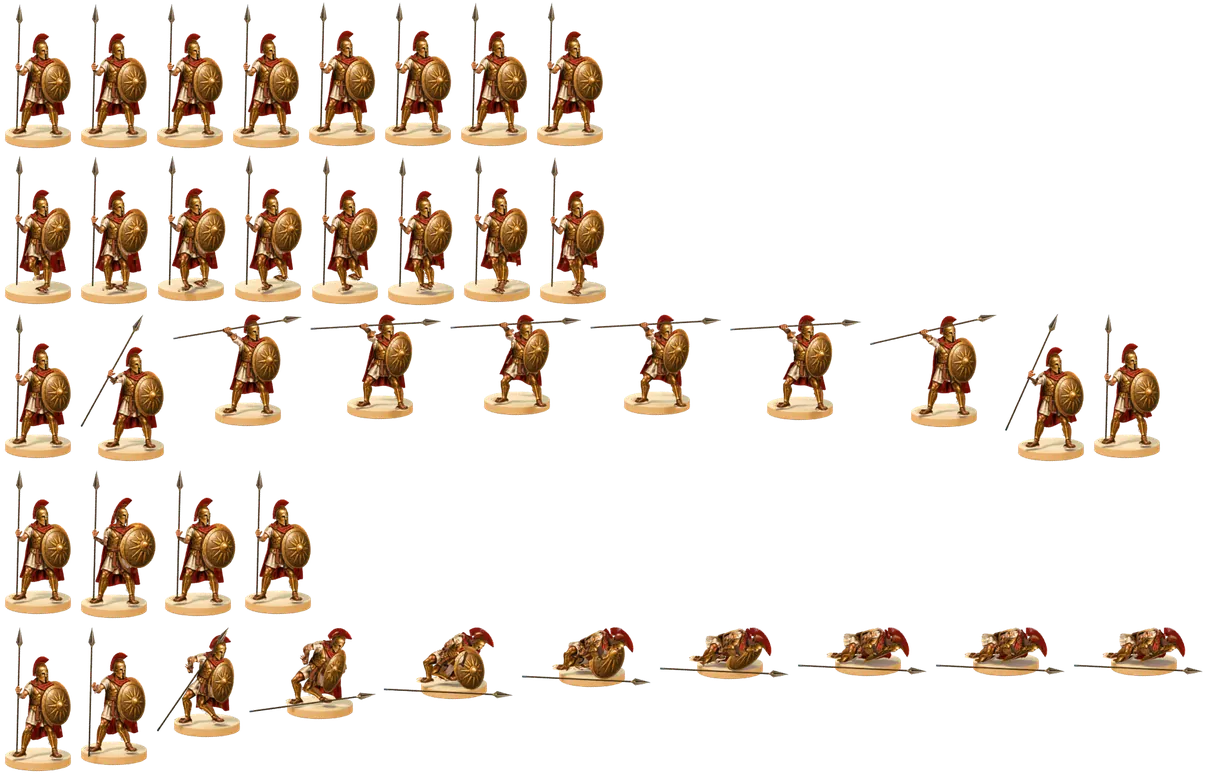
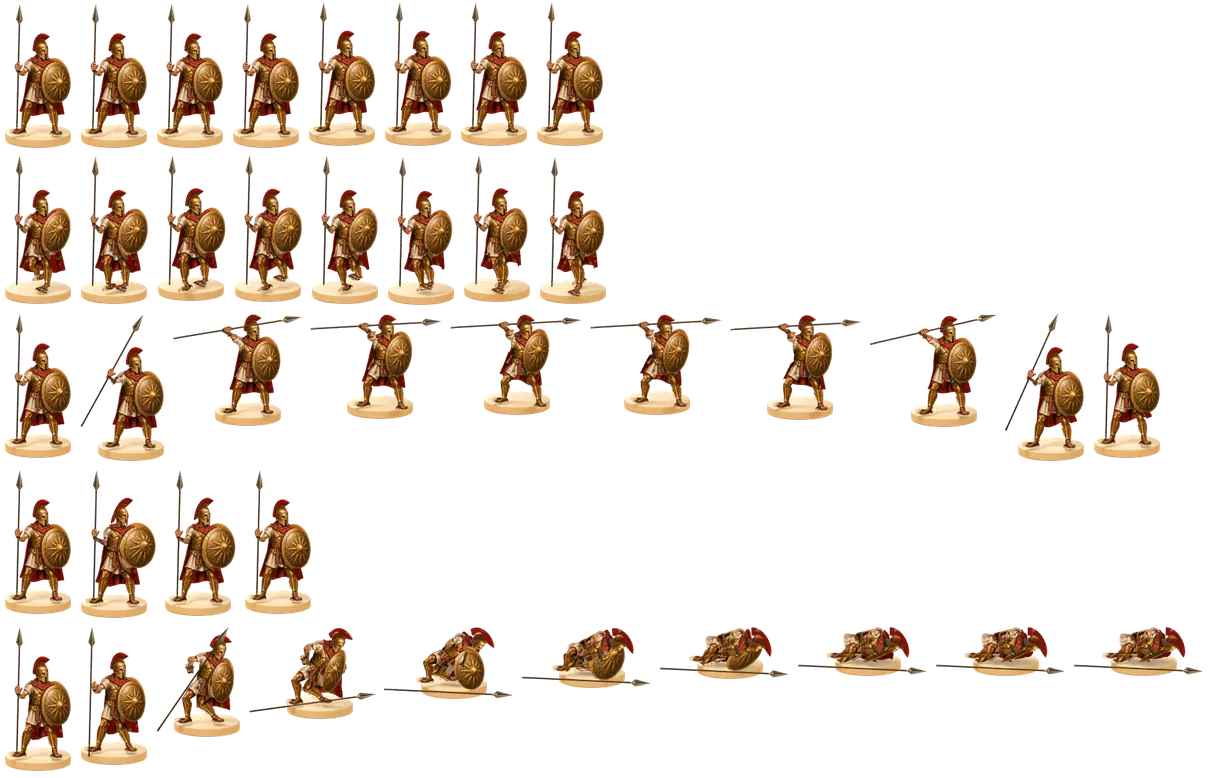
Codex task unit-anim-3d-v2: work left uncommitted in the sandbox

diff --git a/tools/art/anim3d/infantry/refine.py b/tools/art/anim3d/infantry/refine.py
@@ -55,7 +55,7 @@ def refine(sc, aim, screen_sculpt):
 
     def fitted_pixel(p):
         shoulder = math.exp(-((p.x-111)/8)**2-((p.y-108)/10)**2)
-        target = p+Vector((1.0, 2.0))*shoulder
+        target = p+Vector((.2, 1.1))*shoulder
         # Fit the whole bent arm, not just the shoulder cap. The previous
         # elbow sat too far toward the torso, leaving a gap where the painting
         # has a muscular upper arm. Preserve camera depth and skin weights.
@@ -64,7 +64,7 @@ def refine(sc, aim, screen_sculpt):
         # The actual closed hand was a horizontal sliver. Broaden its vertical
         # knuckle stack around the shaft without replacing fingers or the rig.
         fist = math.exp(-((p.x-97)/8)**4-((p.y-115)/9)**4)
-        target += Vector((-.18*(p.x-97), .60*(p.y-115)+.3))*fist
+        target += Vector((.08*(p.x-97), .82*(p.y-115)+.3))*fist
         if p.x < 122:
             # Seat the spear-side shin/foot under the painted greave rather
             # than leaving an exposed sliver beyond the painted toe silhouette.
@@ -204,7 +204,12 @@ def refine(sc, aim, screen_sculpt):
         if ob.name.startswith(('Horsehair crest tuft', 'Horsehair painted fibre', 'Crest bronze saddle')):
             for v in ob.data.vertices:
                 p = pixel(ob, v.co)
-                v.co = screen_sculpt(ob, v.co, Vector((131+(p.x-131)*.84, 91+(p.y-91)*.92)))
+                crest_target = Vector((131+(p.x-131)*.84, 91+(p.y-91)*.92))
+                # The painted fan ends above the cheek, and its forward tip
+                # extends slightly farther. Fit real tuft volume, not alpha.
+                crest_target.y -= 3*max(0, min(1, (crest_target.y-79)/12))
+                crest_target.x += 1.2*max(0, min(1, (crest_target.x-135)/9))
+                v.co = screen_sculpt(ob, v.co, crest_target)
             ob.data.update()
         if ob.name == 'Corinthian continuous faceplate':
             # Recover the broad near cheek and eye surround of the painting;
@@ -239,15 +244,29 @@ def refine(sc, aim, screen_sculpt):
             v.co.z -= .065
         v.co.x *= .99
         v.co.y *= .99
+    # Round the actual stone edge; the old three-segment bevel and coarse
+    # scanned bump left a sawtooth highlight at token size.
+    for mod in base_object.modifiers:
+        if mod.type == 'BEVEL':
+            mod.width = .022
+            mod.segments = 5
     # Fine limestone pigment grain; no painted feet or static contact shadows.
     for mat in base_object.data.materials:
         nodes, links = mat.node_tree.nodes, mat.node_tree.links
         bsdf = nodes.get('Principled BSDF')
+        for node in nodes:
+            if node.type == 'BUMP':
+                node.inputs['Strength'].default_value = .035
+                node.inputs['Distance'].default_value = .001
         grain = nodes.new('ShaderNodeTexNoise'); grain.inputs['Scale'].default_value = 450
         ramp = nodes.new('ShaderNodeValToRGB')
         base = tuple(bsdf.inputs['Base Color'].default_value)
-        for el, factor in zip(ramp.color_ramp.elements, (.90, 1.06)):
-            el.color = tuple(min(1, c*factor) for c in base[:3])+(1,)
+        # The shared cream inputs are albedo, not final display values. The
+        # source stone is paler than this physical material under Standard.
+        # Calibrate pigment in linear space while retaining live moving shade.
+        lift = (1, 1.05, 1.14) if 'rim' in mat.name else (1.03, 1.07, 1.14)
+        for el, factor in zip(ramp.color_ramp.elements, (.94, 1.04)):
+            el.color = tuple(min(1, c*factor*k) for c, k in zip(base[:3], lift))+(1,)
         links.new(grain.outputs['Fac'], ramp.inputs[0])
         links.new(ramp.outputs['Color'], bsdf.inputs['Base Color'])
         bsdf.inputs['Specular IOR Level'].default_value = .18
@@ -256,7 +275,7 @@ def refine(sc, aim, screen_sculpt):
         links.new(ramp.outputs['Color'], bsdf.inputs['Emission Color'])
         ray = nodes.new('ShaderNodeLightPath')
         pigment = nodes.new('ShaderNodeMath'); pigment.operation = 'MULTIPLY'
-        pigment.inputs[1].default_value = 1.12 if 'rim' in mat.name else .28
+        pigment.inputs[1].default_value = 1.30 if 'rim' in mat.name else .50
         links.new(ray.outputs['Is Camera Ray'], pigment.inputs[0])
         links.new(pigment.outputs[0], bsdf.inputs['Emission Strength'])
     # Painted illumination is already display-referred. AgX compressed it a
@@ -272,6 +291,13 @@ def refine(sc, aim, screen_sculpt):
     # reduce incident energy so the cream pigment is not clipped to white.
     for name in ['Warm upper-left key', 'Soft cool fill', 'Warm back rim']:
         bpy.data.objects[name].data.energy *= .55
+    # A broader elevated softbox gives short soft contact shadows, closer to
+    # the painted base. Compensate for its greater distance; retain cool fill.
+    key = bpy.data.objects['Warm upper-left key']
+    key.location = (-3, -4, 8)
+    key.rotation_euler = (Vector((0, 0, 1))-key.location).to_track_quat('-Z', 'Y').to_euler()
+    key.data.size = 5.0
+    key.data.energy *= 1.55
     # Freeze the finished rigid kit surfaces BEFORE projecting. UVs made on
     # the raw shell were then offset by Solidify and Bevel, visibly displacing
     # the painted sunburst from its own raised rays. Keep all actual thickness
@@ -285,5 +311,5 @@ def refine(sc, aim, screen_sculpt):
         for mod in list(ob.modifiers):
             if mod.type in {'SOLIDIFY', 'BEVEL', 'SUBSURF'}:
                 bpy.ops.object.modifier_apply(modifier=mod.name)
-    sc['infantry_refinement'] = 7
+    sc['infantry_refinement'] = 8
     bpy.context.view_layer.update()

diff --git a/tools/art/anim3d/units/spearman/check_scene.py b/tools/art/anim3d/units/spearman/check_scene.py
@@ -1,4 +1,4 @@
-"""Verify the saved round-7 surface pipeline before rebuilding cloth/clips."""
+"""Verify the saved round-8 surface pipeline before rebuilding cloth/clips."""
 import json
 import os
 from pathlib import Path
@@ -10,7 +10,7 @@ from mathutils.bvhtree import BVHTree
 root = Path(os.environ['ANIM_ROOT'])
 bpy.ops.wm.open_mainfile(filepath=str(root/'masters/spearman-3d-v2/spearman.blend'))
 sc = bpy.context.scene
-assert sc['infantry_refinement'] == 7
+assert sc['infantry_refinement'] == 8
 assert len(bpy.data.objects['MPFB anatomical male • original topology'].data.vertices) == 19158
 assert bpy.data.objects['MPFB anatomical male • original topology'].data.shape_keys is None
 assert len(bpy.data.objects['Spearman • MPFB game_engine'].data.bones) == 53
@@ -49,6 +49,9 @@ for ob in sc.objects:
         assert not any(m.type in {'SOLIDIFY', 'BEVEL', 'SUBSURF'} for m in ob.modifiers), ob.name
 
 base = bpy.data.objects['Stationary cream stone']
+stone_bevel = next(m for m in base.modifiers if m.type == 'BEVEL')
+assert stone_bevel.segments == 5 and abs(stone_bevel.width-.022) < .00001
+assert bpy.data.objects['Warm upper-left key'].data.size == 5.0
 assert base.data.uv_layers.get('Painting camera rest') is None
 assert abs(max((base.matrix_world @ v.co).z for v in base.data.vertices)-.105) < .0001
 heights = [(base.matrix_world @ v.co).z for v in base.data.vertices]
@@ -59,6 +62,9 @@ for side in ['l', 'r']:
     lowest = min((sole.matrix_world @ v.co).z for v in sole.data.vertices)
     assert lowest >= .100, (sole.name, lowest)
 for mat in base.data.materials:
+    for node in mat.node_tree.nodes:
+        if node.type == 'BUMP':
+            assert node.inputs['Distance'].default_value <= .00101
     bsdf = mat.node_tree.nodes['Principled BSDF']
     strength = bsdf.inputs['Emission Strength'].links[0].from_node
     camera = strength.inputs[0].links[0].from_socket
@@ -84,10 +90,11 @@ for ob in sc.objects:
     clearance[ob.name] = min(distances)
     assert min(distances) > .001, (ob.name, min(distances))
 assert len(clearance) == 12
-report = {'refinement': 7, 'painted_materials': painted, 'camera_only_pigment': True,
+report = {'refinement': 8, 'painted_materials': painted, 'camera_only_pigment': True,
           'camera_only_unseen_fills': unseen_fills, 'base_thickness': max(heights)-min(heights),
           'rigid_finish_before_projection': True, 'body_vertices': 19158, 'bones': 53,
           'base_top': .105, 'camera': list(sc.camera.location),
+          'stone_bevel_segments': stone_bevel.segments, 'key_size': 5.0,
           'shield_ray_min_face_clearance': clearance}
 (root/'review/3d-v2/spearman-scene-checks.json').write_text(json.dumps(report, indent=2)+'\n')
 print('SCENE_CHECKS', json.dumps(report))

diff --git a/tools/art/anim3d/REVIEW.md b/tools/art/anim3d/REVIEW.md
@@ -1,80 +1,80 @@
-# Spearman review — round 7
+# Spearman review — round 8
 
-**Not PASS.** At 256 px the sleeve/upper arm is more continuous, the hand fuller,
-the rear neckline cleaner and the stone perspective closer. Crest and cheek
-outline, sandals, stance and base shading still differ from the painting.
-Raised-arm paint stretching and uneven pale fallen-pose surfaces remain. At
-64 px this clearly reads as the same spearman, but the base and stance are still
-distinguishable. No `spearman-PASS` was written. All results are CPU previews.
+**Not PASS.** At 256 px the hand and shoulder contour are slightly closer,
+the crest ends higher beside the cheek, and the cream stone is paler with a
+smoother bevel and softer shadows. Cheek shape, sandals, stance, shield edge
+and base shading still distinguish the render from the painting. At 64 px it
+reads as the same spearman, with a remaining difference in stance and base.
+All evidence from this iteration is explicitly labelled CPU preview.
 
-The requested round-6 GPU log and status receipt are both absent. Supplied
-images and movie were CPU-labelled; no GPU success or failure was inferred.
-They are preserved under `review/3d-v2/spearman-round6-preserved/`. All six Blender
-skills, all playbook chapters, complete shared/unit feedback, source licences
-and the running log were read before the revision.
+The requested round-7 GPU log is absent, and supplied images and movie are
+CPU-labelled. No GPU success or failure was inferred. The received evidence is
+preserved under `review/3d-v2/spearman-round7-preserved/`.
 
 ## Changes
 
-Depth-preserving inverse-skin fitting now covers the whole bent arm and taller
-knuckle stack. The near helmet cheek is wider; real folded collar and weighted
-cape vertices lower the squared rear neckline. Original anatomy, topology,
-weights, bevels, straps and simulated cloth remain.
+The frozen rest-camera projection, original MPFB body and skin weights, real
+beveled equipment, straps, cloth folds, and image-generated unseen fills remain.
+Inverse-skin fitting expands the actual knuckle stack and adjusts the shoulder;
+real crest volume now ends above the cheek and extends farther forward.
 
-The lower camera and repositioned round disc fit the shallower top ellipse;
-the stone has a taller edge, fine pigment grain and unchanged .105m contact top.
-The death calf solver now uses the actual base-local footprint. Existing generated
-unseen fills and tinted MPFB skin receive camera-only pigment, live AO and 35%
-physical response. Non-camera rays still see the original physical material.
-One automatic rest histogram grade remains fixed across all clips.
+The stone has a 22mm five-segment bevel, restrained scan bump and finer pigment
+variation. An elevated broad area key softens the previous diagonal shadows.
+A small linear pigment lift brings the rendered cream closer to source samples.
+Raw/graded pixel comparisons showed that the existing automatic grade improves
+the figure overall; that single rest-fitted grade remains fixed for all clips.
 
-Attack previously used a raised elbow pole at zero raise, causing a visible
-entry/exit pop despite matching hand targets. Attack and death now interpolate
-from the same guard poles as idle. The audit checks those transitions explicitly.
+The scene check verifies the new finish in addition to topology, original rig,
+camera-only pigment, contact plane and actual shield relief clearance. GPU
+handoff defaults to round 8 and logs the checkout revision, dirty input paths
+and resolved Blender gate, alongside its existing stage/failure receipts.
 
-## Verified outputs and checks
+## Verification
 
-- CPU Cycles rest and all 40 frames: 256 px, 12 samples; 512 px detail preview.
-  Clips retain 8/8/10/4/10 frames. Final GPU 512/256 master export is pending.
-- Trimmed 160 px atlas: **184,028 bytes at quality 80**.
[1 lines of base64/hex data omitted]
-- Decoded validation passes current hashes, timing, crop offsets, exact alpha,
-  gutters, bounds, visible motion, byte/quality caps and identical held-death PNGs.
-- Full saved-rig audit: **40 samples, zero findings**. Attack entry/exit arm
-  positions match idle exactly; death entry differs by less than 0.000001m.
-- Saved-scene checks pass: 314 camera-gated painting materials, 280 camera-only
-  unseen fills, original 19,158 body vertices / 53 bones, .155m stone thickness,
-  unchanged contact top and positive face clearance for all 12 shield rays.
-  Additional scene ray tests confirm all 12 rays are directly visible.
-- **2 regression tests pass**. Syntax: **26 Python, 3 Bash, 2 JSON**. Hygiene:
-  **34 text files, zero findings**. Diff whitespace passes.
-- Movie: five decoded clips simultaneously on cream, H.264 yuv420p,
-  **1600 × 352, 192 frames, 24 fps, exactly 8 seconds**.
-- Rest silhouette IoU **0.8839** versus round 6 **0.8767**; RGB union errors
-  **22.25 / 27.27 / 28.60** versus **24.90 / 29.49 / 30.44**. Diagnostics only.
-- Opened final clay, details, rest split/crossfade at 256/64, rig poses, every
-  strip, decoded atlas and freshly decoded round-7 movie contact frames.
+- CPU Cycles rest and all 40 frames: **256 px / 12 samples**. Detail inspection
+  render: **512 px / 12 samples**, still CPU. Final GPU masters remain pending.
+- Trimmed 160 px atlas: **181,968 bytes, quality 80**, all 8/8/10/4/10
[1 lines of base64/hex data omitted]
+- Independent decoded validation passes current hashes, clip timing, exact
+  reconstructed alpha, offsets, gutters, bounds, visible motion, byte/quality
+  limits and byte-identical held-death PNGs.
+- Full saved-rig audit: **40 samples, zero findings**, including guard arm
+  transitions, hand/shaft attachment, spear crossings, camera and floor bounds.
+- Saved-scene checks pass: **19,158 body vertices / 53 bones**, 314 camera-gated
+  painting materials, 280 unseen fills, all 12 raised shield rays clear.
+- **2 pipeline regression tests pass**. **26 Python / 3 Bash / 2 JSON syntax checks pass**; **34-file hygiene**
+  reports zero findings, and diff whitespace passes. Exact report:
+  `spearman-round8-checks.json`.
+- Movie verified: **H.264 yuv420p, 1600 × 352, 192 frames, 24 fps, 8 seconds**;
+  all five decoded clips run simultaneously on cream.
+- Rest diagnostic silhouette IoU: **0.8862**, versus round 7 **0.8839**;
+  RGB union errors: **21.61 / 26.82 / 27.92**, versus **22.25 / 27.27 / 28.60**.
+  These small improvements do not establish artistic equivalence.
+- Opened clay, rest split/crossfade, details, rig poses, all five strips, decoded
+  atlas and extracted round-8 movie frames. Motion remains readable, but raised
+  arm/lifted foot projection stretch and pale fallen-pose seams remain.
 
-No Rust, rules, WASM or UI runtime changed. The game still displays its painting.
+No `spearman-PASS` was written.
 
 ## GPU handoff
 
 From the repository root on the GPU host:
 
 ```sh
-ROUND=7 tools/art/anim3d/units/spearman/gpu.sh
+ROUND=8 tools/art/anim3d/units/spearman/gpu.sh
 ```
 
-The executable defaults to round 7, verifies Cycles GPU/Metal availability,
-rebuilds projection and every clip, runs scene/rig checks, renders all stages at
-512 px / 64 samples, exports genuine 512/256 masters to `masters/spearman/`,
-packs and validates the atlas, and writes `spearman-round7.mp4` plus all review
-images. It retains `gpu-logs-spearman-r7.log` and a stage/status receipt. It never
-writes PASS automatically. Final GPU rendering and visual review remain pending.
+This executable checks Cycles GPU/Metal, rebuilds the projection and all five
+clips, renders every stage and 40 frames at 512 px / 64 samples, fits one grade,
+exports genuine 512/256 masters, packs and independently validates the trimmed
+160 px atlas, and encodes all five decoded clips side by side for eight seconds.
+It writes `spearman-round8.mp4`, all review images including the rest comparison,
+`gpu-logs-spearman-r8.log` and a stage/status receipt. It never writes PASS.
+Final GPU rendering and visual review remain required.
 
-Running log and exact report: `review/3d-v2/spearman-log.md` and
-`spearman-final-report.json`. Masters remain outside git.
+Masters remain outside git. No Rust, rules, WASM or UI runtime changed; the
+game still displays its painting. No push, PR or master merge is part of this task.
 
-Git staging was blocked by `Operation not permitted` creating the worktree
-`index.lock`; changes remain for the runner to commit with the requested
-`Co-Authored-By: gpt-6-astra (Codex) <noreply@openai.com>` trailer. The branch
-already contains available `origin/master`; no fetch, push or PR was performed.
+Git staging failed because the sandbox denied the worktree `index.lock`.
+Seven files remain for the runner to commit with the requested gpt-6-astra
+co-author trailer. The branch already contains available `origin/master`.

diff --git a/tools/art/anim3d/PLAYBOOK.md b/tools/art/anim3d/PLAYBOOK.md
@@ -319,6 +319,33 @@ images do not establish that a GPU render ran. The script retains its own round
 log and stage/status receipt; final 512/256 export and PASS still require actual
 GPU output and visual review. The CPU iteration report records measured results.
 
+### Round 8 stone and contour polish
+
+The unchanged rest camera still owns all projection UVs. `infantry/refine.py`
+fits the real knuckles and shoulder more closely and trims the crest's lower
+fan while extending its forward tip. The original MPFB body topology, weights,
+solid kit, folded cloth and generated unseen fills remain intact.
+
+Use a five-segment 22mm stone bevel and restrained 1mm-distance scan bump.
+The elevated 5m area key softens and shortens the broad diagonal base shadows;
+its energy compensates for the increased distance. The shared cream albedo
+stays recorded, while a small linear pigment lift makes the rendered stone
+paler. Compare actual pixels: the albedo field alone does not establish a
+painting match. Raw/graded region comparisons showed that the fixed global
+histogram grade helped the figure; retain it rather than correcting each frame.
+
+`check_scene.py` verifies the new stone finish as well as the original rig,
+camera-only pigment, finished rigid surfaces and shield clearances. Keep local
+contour targets separately named: reusing the shield ornament target in a
+crest loop made later objects depend on scene iteration order and was caught
+by the existing projection assertion.
+
+`ROUND=8 tools/art/anim3d/units/spearman/gpu.sh` is the complete host handoff;
+it defaults to round 8 and records checkout revision, dirty inputs and the
+resolved Blender gate in its retained log. The requested round-7 GPU log was
+absent and supplied evidence was CPU-labelled. This is an unverified GPU pass,
+not evidence of successful final rendering or a diagnosed GPU failure.
+
 ### Trimmed atlas v2 and checks
 
 `units/spearman/delivery.py` preserves 8/8/10/4/10 frames, real alpha, and the
